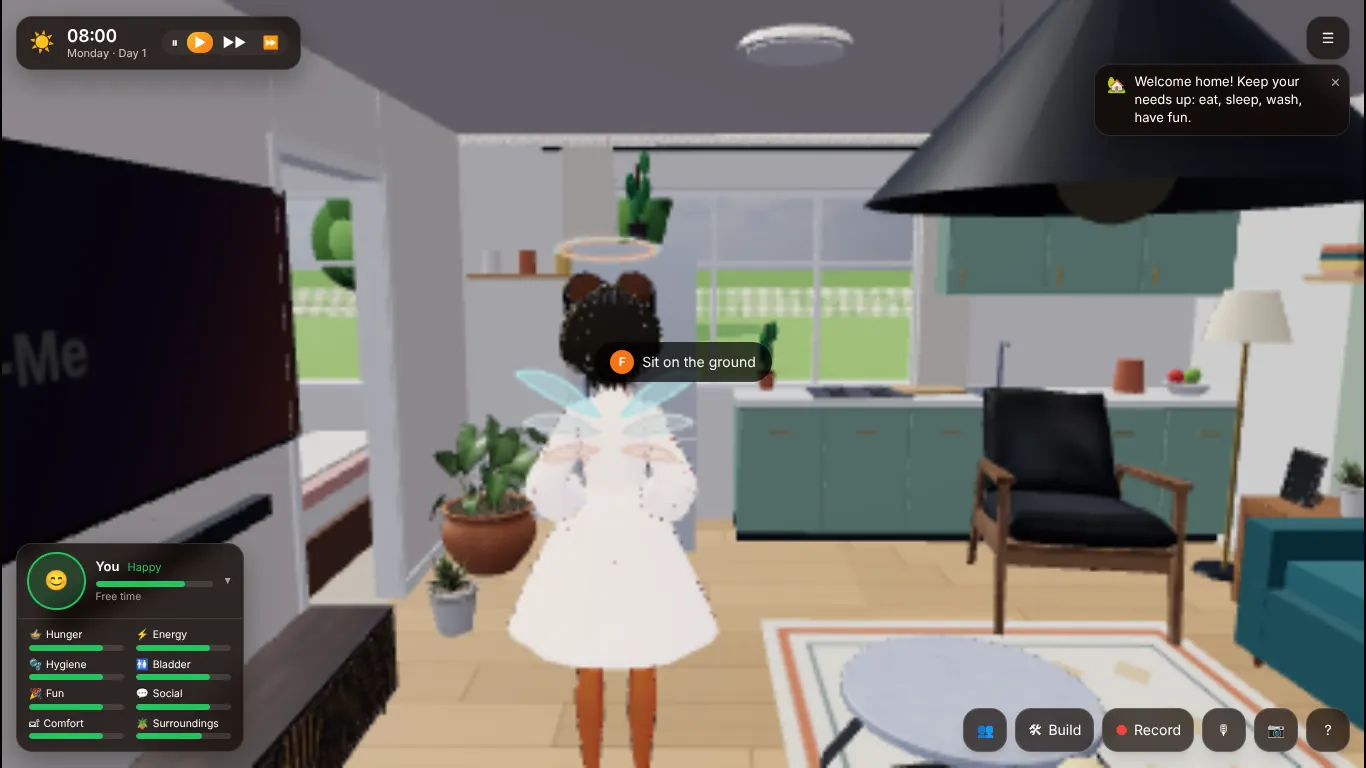
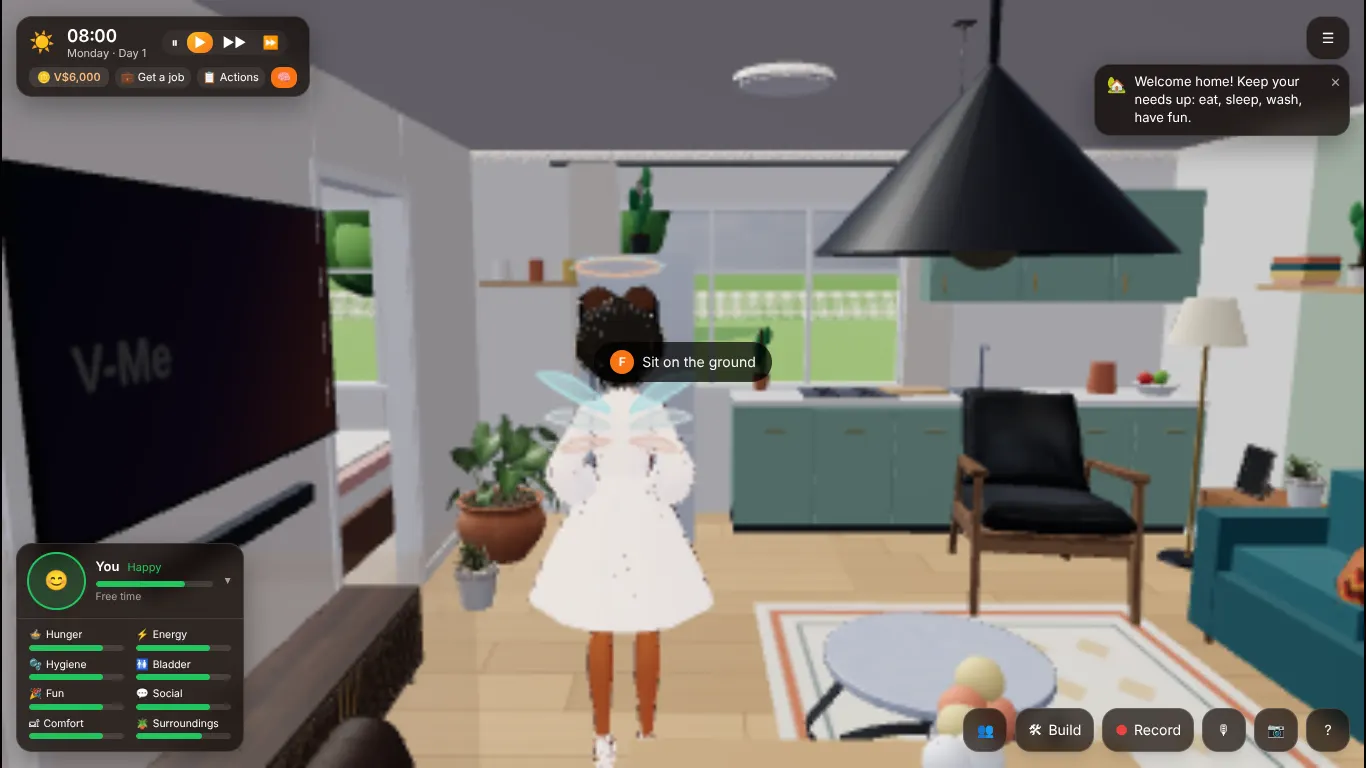
Page: 1.8 screenshot and Play Life text
Claude-Session: https://claude.ai/code/session_014TduLaMkcpxyREyC3w7Lnt

diff --git a/site/index.html b/site/index.html
@@ -156,7 +156,7 @@
       <h2>Everything in one app</h2>
       <p class="section-lead">Pick what you feel like from the start menu.</p>
       <div class="features">
-        <div class="feat"><div class="e">🏡</div><h3>Play Life</h3><p>A clock you can pause or speed up, eight needs, moods that show on the face, day and night. Sleep, eat, shower, relax.</p></div>
+        <div class="feat"><div class="e">🏡</div><h3>Play Life</h3><p>Needs, moods, money and jobs. Your character looks after itself when you leave it alone, and walls fade so you always see them.</p></div>
         <div class="feat"><div class="e">🧍</div><h3>Create a Person</h3><p>Faces, bodies, hair, outfits and accessories, or start from one of the ready-made characters.</p></div>
         <div class="feat"><div class="e">🛠</div><h3>Build &amp; Design</h3><p>Move, turn, paint and furnish. More than 500 free 3D objects and 900 skies, saved for offline use.</p></div>
         <div class="feat"><div class="e">🎬</div><h3>Film Studio</h3><p>Scripts, neural voices, camera moves, music, subtitles and transitions. Export a finished video.</p></div>
@@ -170,7 +170,7 @@
     <div class="wrap">
       <h2>Screenshots</h2>
       <div class="gallery">
-        <figure><div class="shot"><img src="img/play.webp" width="1366" height="768" alt="Play Life: clock, needs and mood over the 3D home" loading="lazy"></div><figcaption>Play Life: needs, mood and time</figcaption></figure>
+        <figure><div class="shot"><img src="img/play.webp" width="1366" height="768" alt="Play Life: clock, needs and mood over the 3D home" loading="lazy"></div><figcaption>Play Life: needs, money, jobs and free will</figcaption></figure>
         <figure><div class="shot"><img src="img/build.webp" width="1366" height="768" alt="Build mode with the item catalogue" loading="lazy"></div><figcaption>Build &amp; Design</figcaption></figure>
         <figure><div class="shot"><img src="img/create.webp" width="1366" height="768" alt="Create a Person: the avatar studio" loading="lazy"></div><figcaption>Create a Person</figcaption></figure>
         <figure><div class="shot"><img src="img/studio.webp" width="1366" height="768" alt="Film Studio" loading="lazy"></div><figcaption>Film Studio</figcaption></figure>
